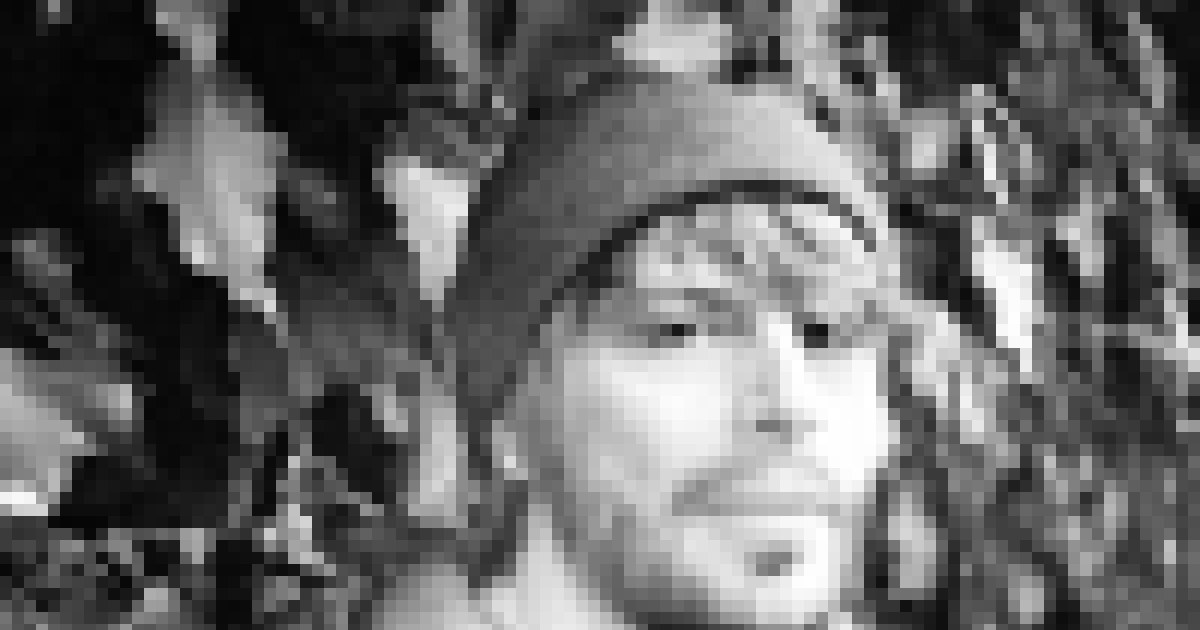
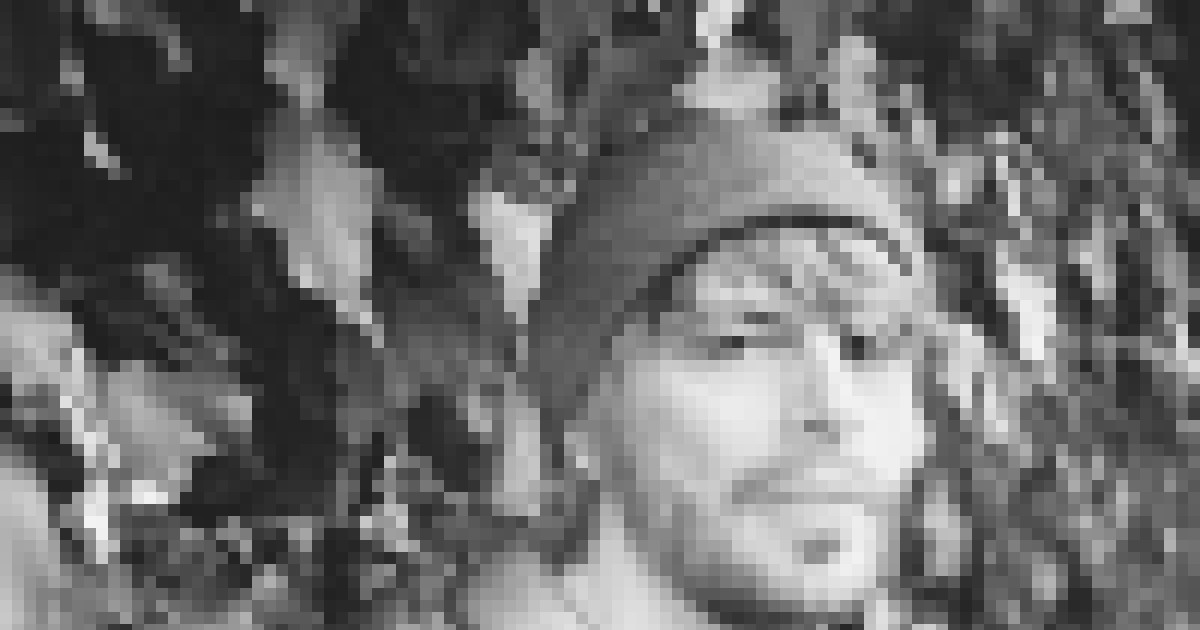
Share image is the front-page portrait

diff --git a/index.html b/index.html
@@ -10,12 +10,12 @@
 <meta property="og:url" content="https://bensontaylor.com/">
 <meta property="og:title" content="BENSON TAYLOR">
 <meta property="og:description" content="British composer, record producer, technologist and businessman.">
-<meta property="og:image" content="https://bensontaylor.com/assets/img/share.jpg">
+<meta property="og:image" content="https://bensontaylor.com/assets/img/share.jpg?v=2">
 <meta property="og:image:width" content="1200">
 <meta property="og:image:height" content="630">
 <meta name="twitter:card" content="summary_large_image">
 <meta name="twitter:title" content="BENSON TAYLOR">
-<meta name="twitter:image" content="https://bensontaylor.com/assets/img/share.jpg">
+<meta name="twitter:image" content="https://bensontaylor.com/assets/img/share.jpg?v=2">
 <link rel="canonical" href="https://bensontaylor.com/">
 <link rel="icon" href="assets/img/icon-32.png" sizes="32x32">
 <link rel="icon" href="assets/img/icon-192.png" sizes="192x192">
